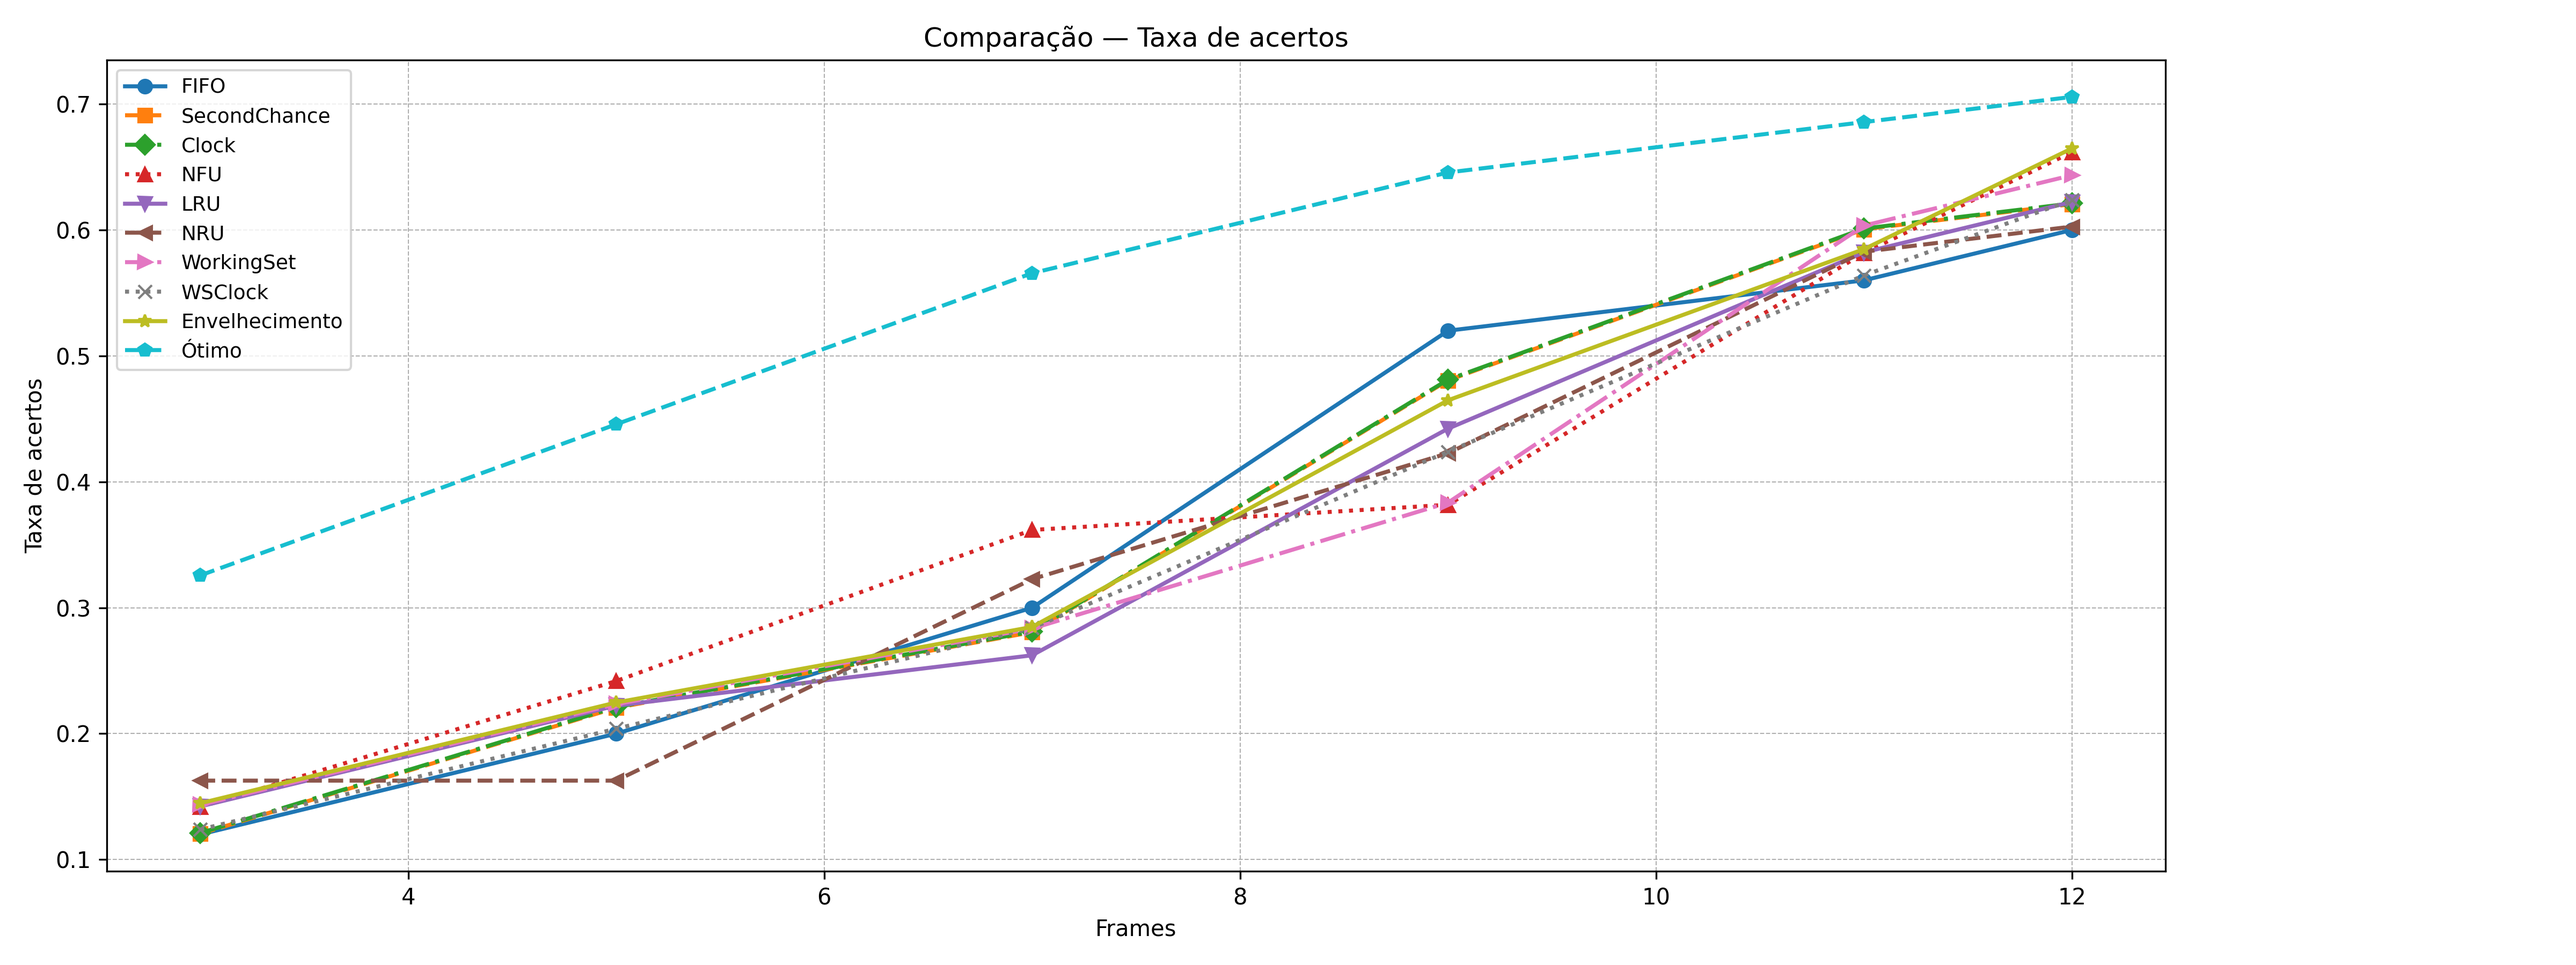
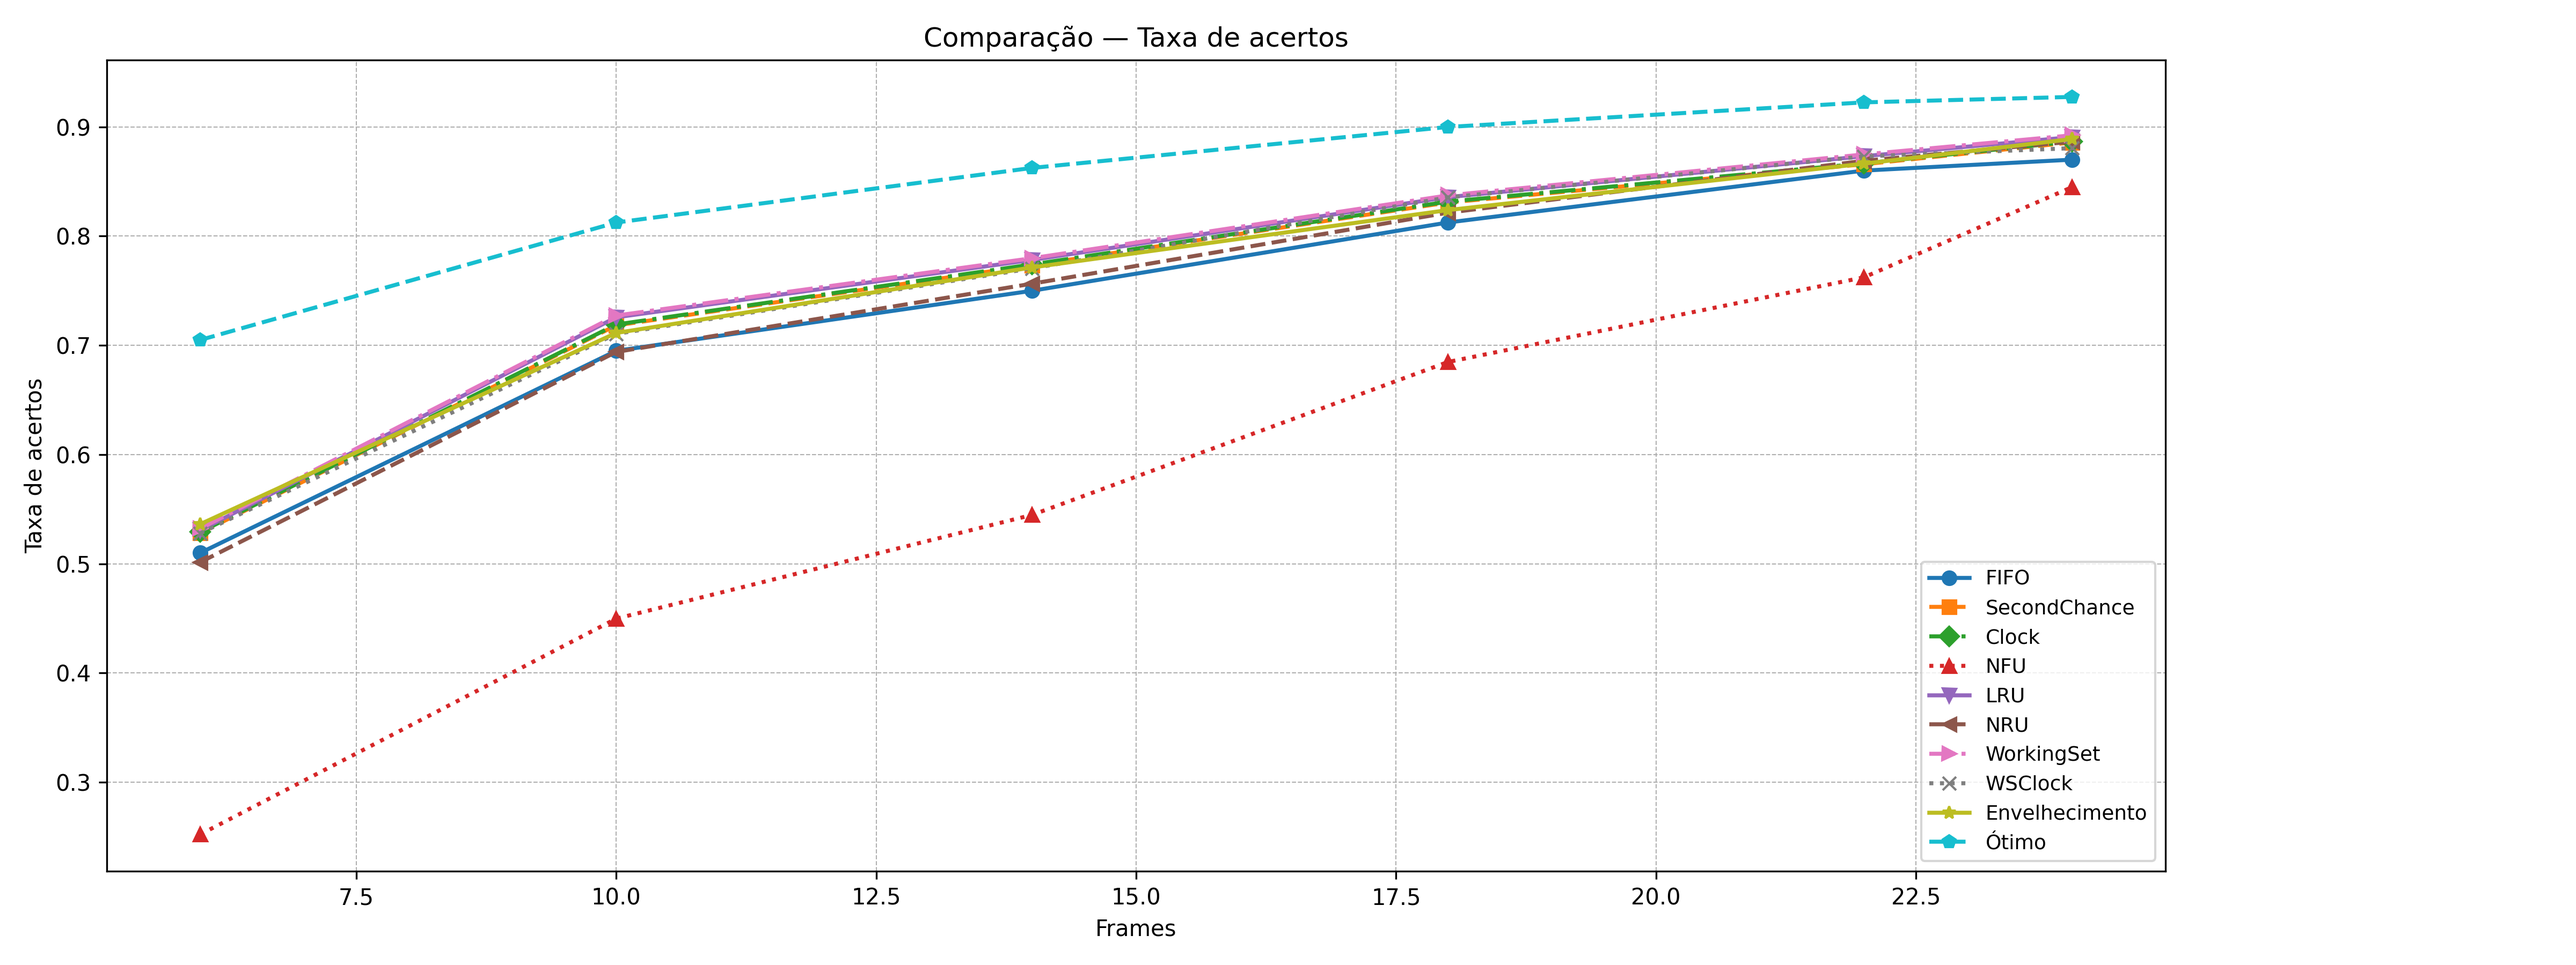
feat: Cria função do trace locally

diff --git a/src/core.py b/src/core.py
@@ -3,6 +3,71 @@ from dataclasses import dataclass
 from typing import Dict, Iterable, List, Optional, Union, Tuple
 import random
 
+
+def make_locality_trace(
+    num_pages: int = 30,
+    trace_length: int = 200,
+    write_prob: float = 0.3,
+    locality_prob: float = 0.8,
+    phase_length: int = 40,
+    working_set_size: int = 5,
+    seed: Optional[int] = None,
+) -> Tuple[List[Access], List[int]]:
+    """
+    Gera um traço com LOCALIDADE DE REFERÊNCIA.
+
+    - Em cada fase, escolhe um subconjunto 'hot' de páginas (working set).
+    - Com probabilidade 'locality_prob', acessa uma página desse subconjunto.
+    - Com probabilidade (1 - locality_prob), acessa qualquer página do universo.
+
+    Isso modela bem o comportamento de programas reais: usam um conjunto pequeno
+    de páginas por um tempo, depois mudam para outro conjunto.
+    """
+
+    if num_pages < 1:
+        raise ValueError("num_pages deve ser >= 1.")
+    if trace_length <= 0:
+        raise ValueError("trace_length deve ser > 0.")
+    if not (0.0 <= write_prob <= 1.0):
+        raise ValueError("write_prob deve estar em [0.0, 1.0].")
+    if not (0.0 <= locality_prob <= 1.0):
+        raise ValueError("locality_prob deve estar em [0.0, 1.0].")
+    if working_set_size < 1 or working_set_size > num_pages:
+        raise ValueError("working_set_size deve estar em [1, num_pages].")
+    if phase_length < 1:
+        raise ValueError("phase_length deve ser >= 1.")
+
+    if seed is not None:
+        random.seed(seed)
+
+    pages = list(range(1, num_pages + 1))
+    trace: List[Access] = []
+
+    current_phase_start = 0
+    current_ws = random.sample(pages, working_set_size)
+
+    for t in range(trace_length):
+        if (t - current_phase_start) >= phase_length:
+            current_phase_start = t
+            current_ws = random.sample(pages, working_set_size)
+
+        if random.random() < locality_prob:
+            pid = random.choice(current_ws)
+        else:
+            pid = random.choice(pages)
+
+        write = random.random() < write_prob
+        trace.append(Access(page_id=pid, write=write, t=t))
+
+    min_f = max(1, num_pages // 5)
+    max_f = max(min_f + 1, (num_pages * 4) // 5 or 1)
+    step = max(1, (max_f - min_f) // 4)
+    frames_list = list(range(min_f, max_f + 1, step))
+    if frames_list[-1] != max_f:
+        frames_list.append(max_f)
+
+    return trace, frames_list
+
 def make_random_trace(
     num_pages: int = 10,
     trace_length: int = 50,

diff --git a/main.py b/main.py
@@ -8,13 +8,21 @@ from src.algorithms.working_set import WorkingSet
 from src.algorithms.wsclock import WSClock
 from src.algorithms.Aging import Aging
 from src.algorithms.Optimal import Optimal
-from src.core import make_random_trace
+from src.core import make_random_trace, make_locality_trace
 from src.plot import plot_faults, plot_hits, plot_fault_rate, plot_hit_rate
 from src.reports import export_benchmark_csv
 
 
 def main():
-    trace, frames_list = make_random_trace(num_pages=15, frames=None, frame_mode="auto", seed=42)
+    trace, frames_list = make_random_trace(num_pages=35, frames=None, frame_mode="auto", seed=42)
+    trace, frames_list = make_locality_trace(
+        num_pages=60,
+        trace_length=500,
+        locality_prob=0.85,
+        phase_length=60,
+        working_set_size=8,
+        seed=42,
+    )
 
     algos = [
         Fifo(),
